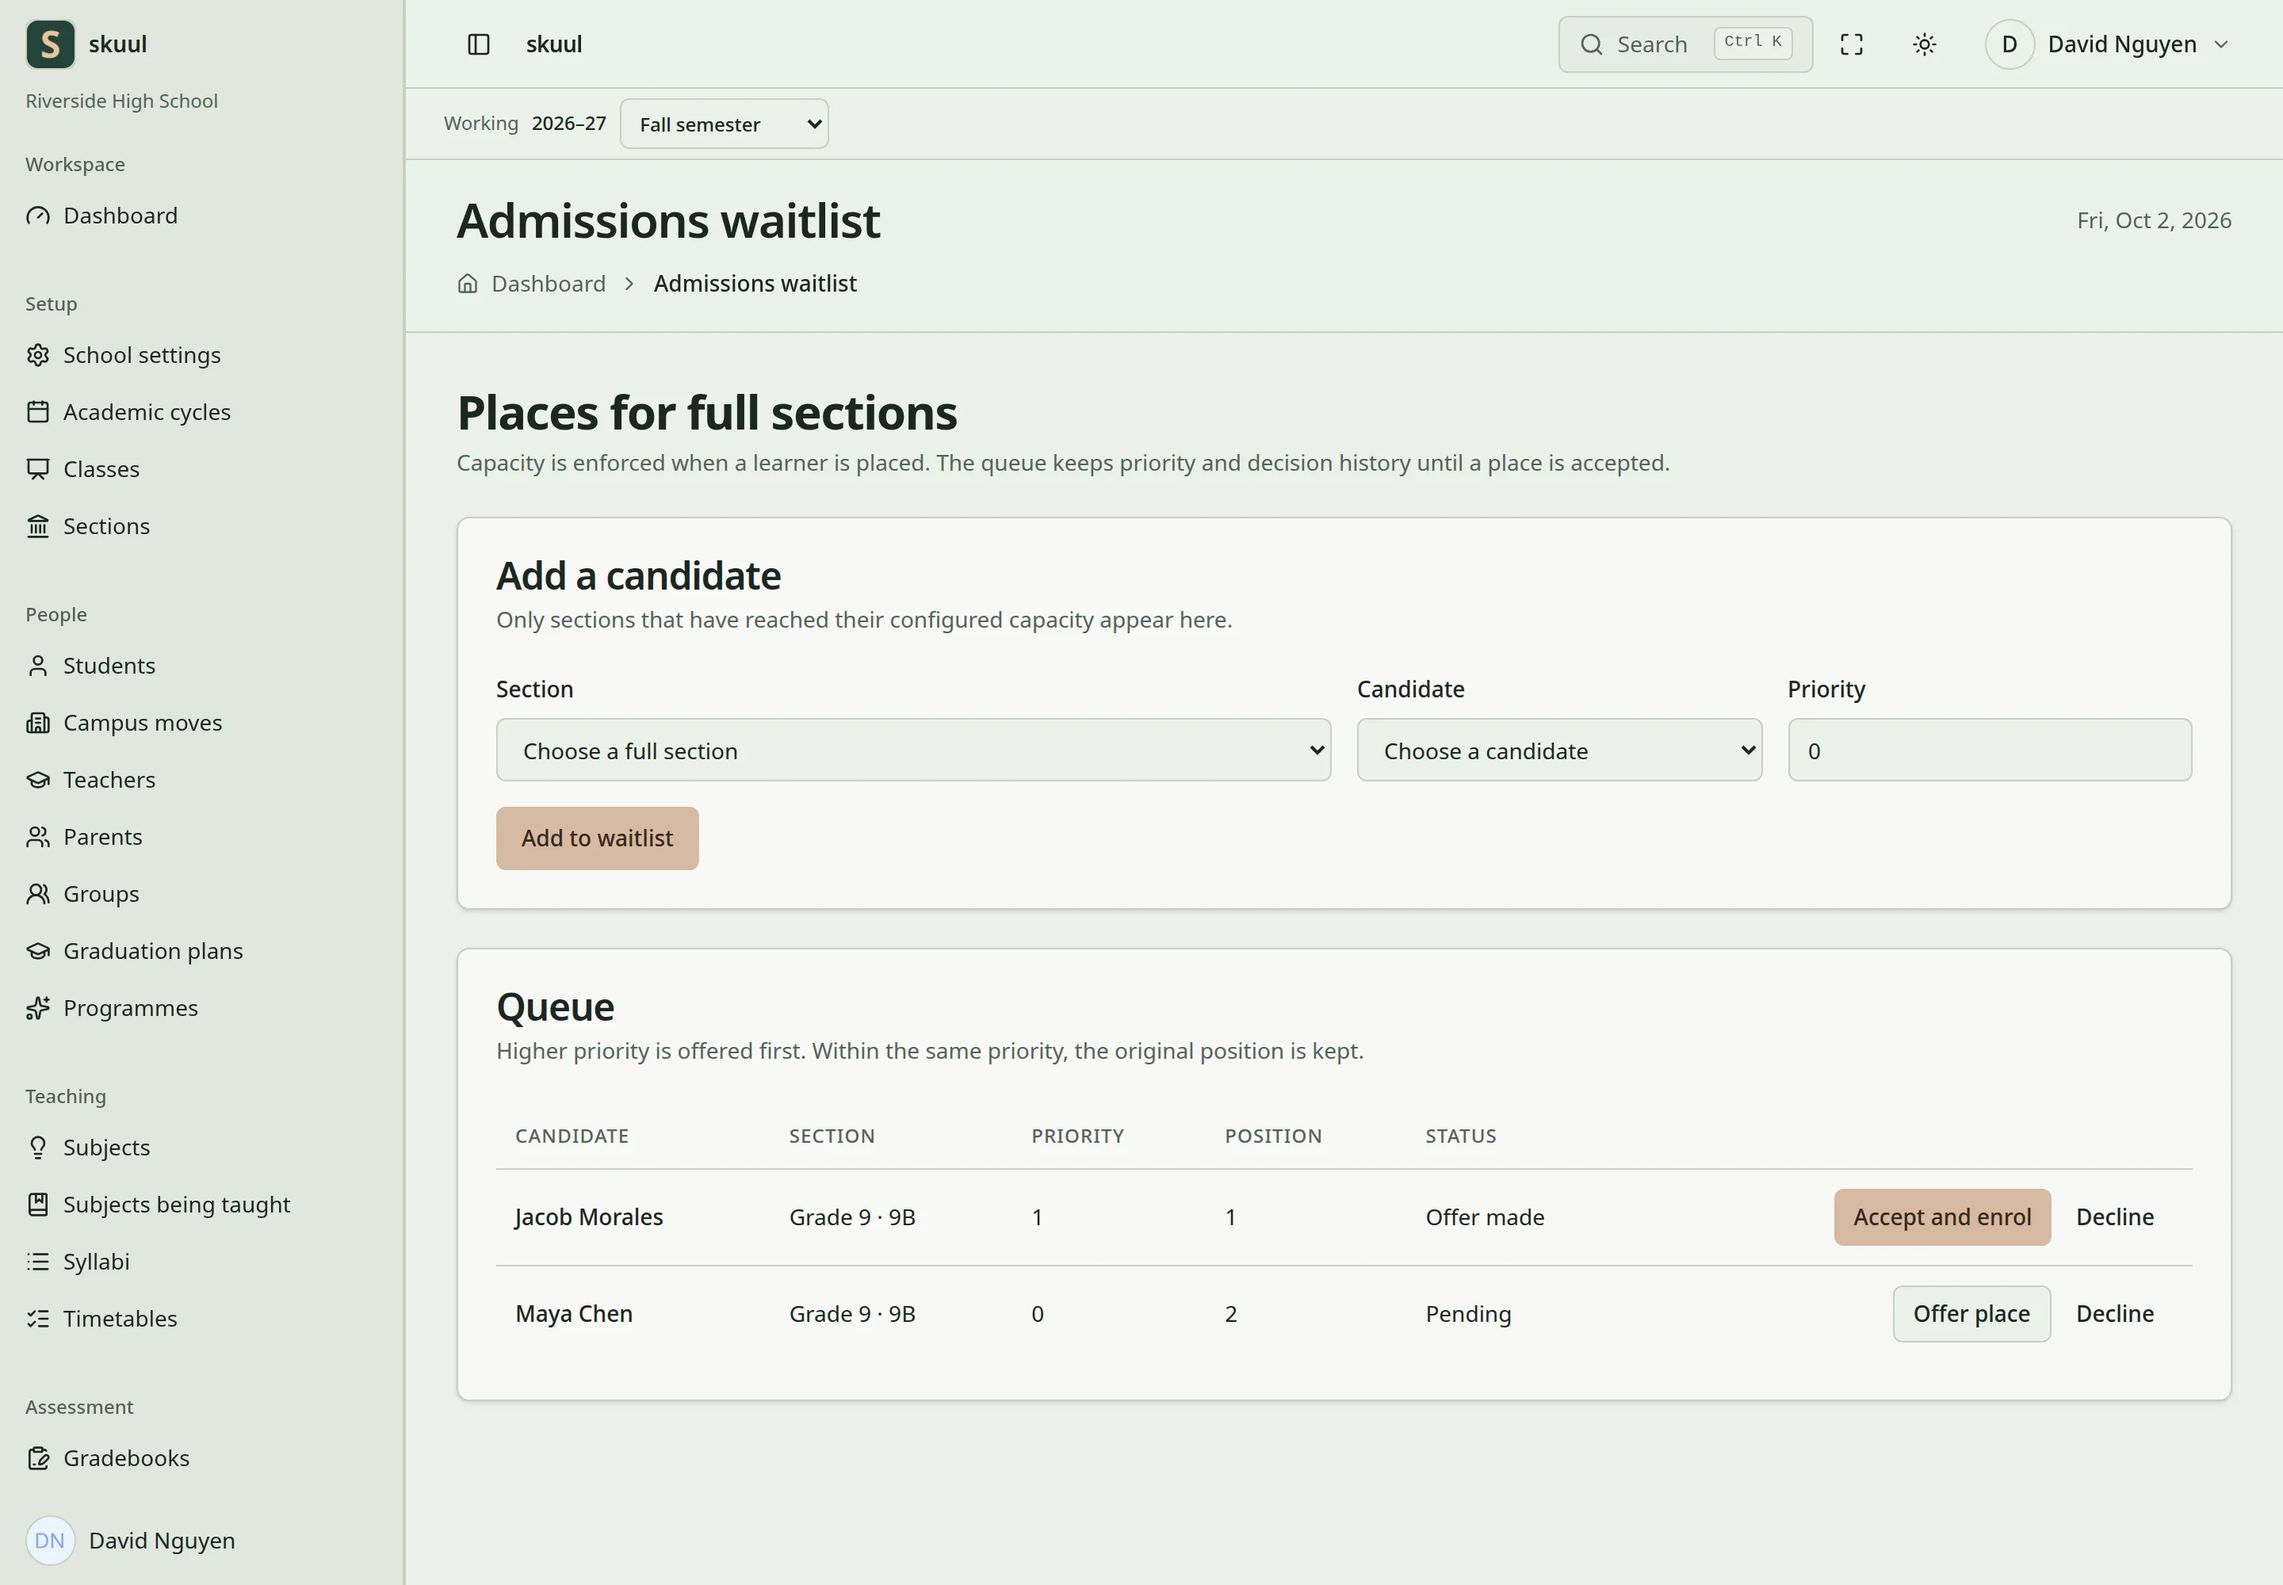
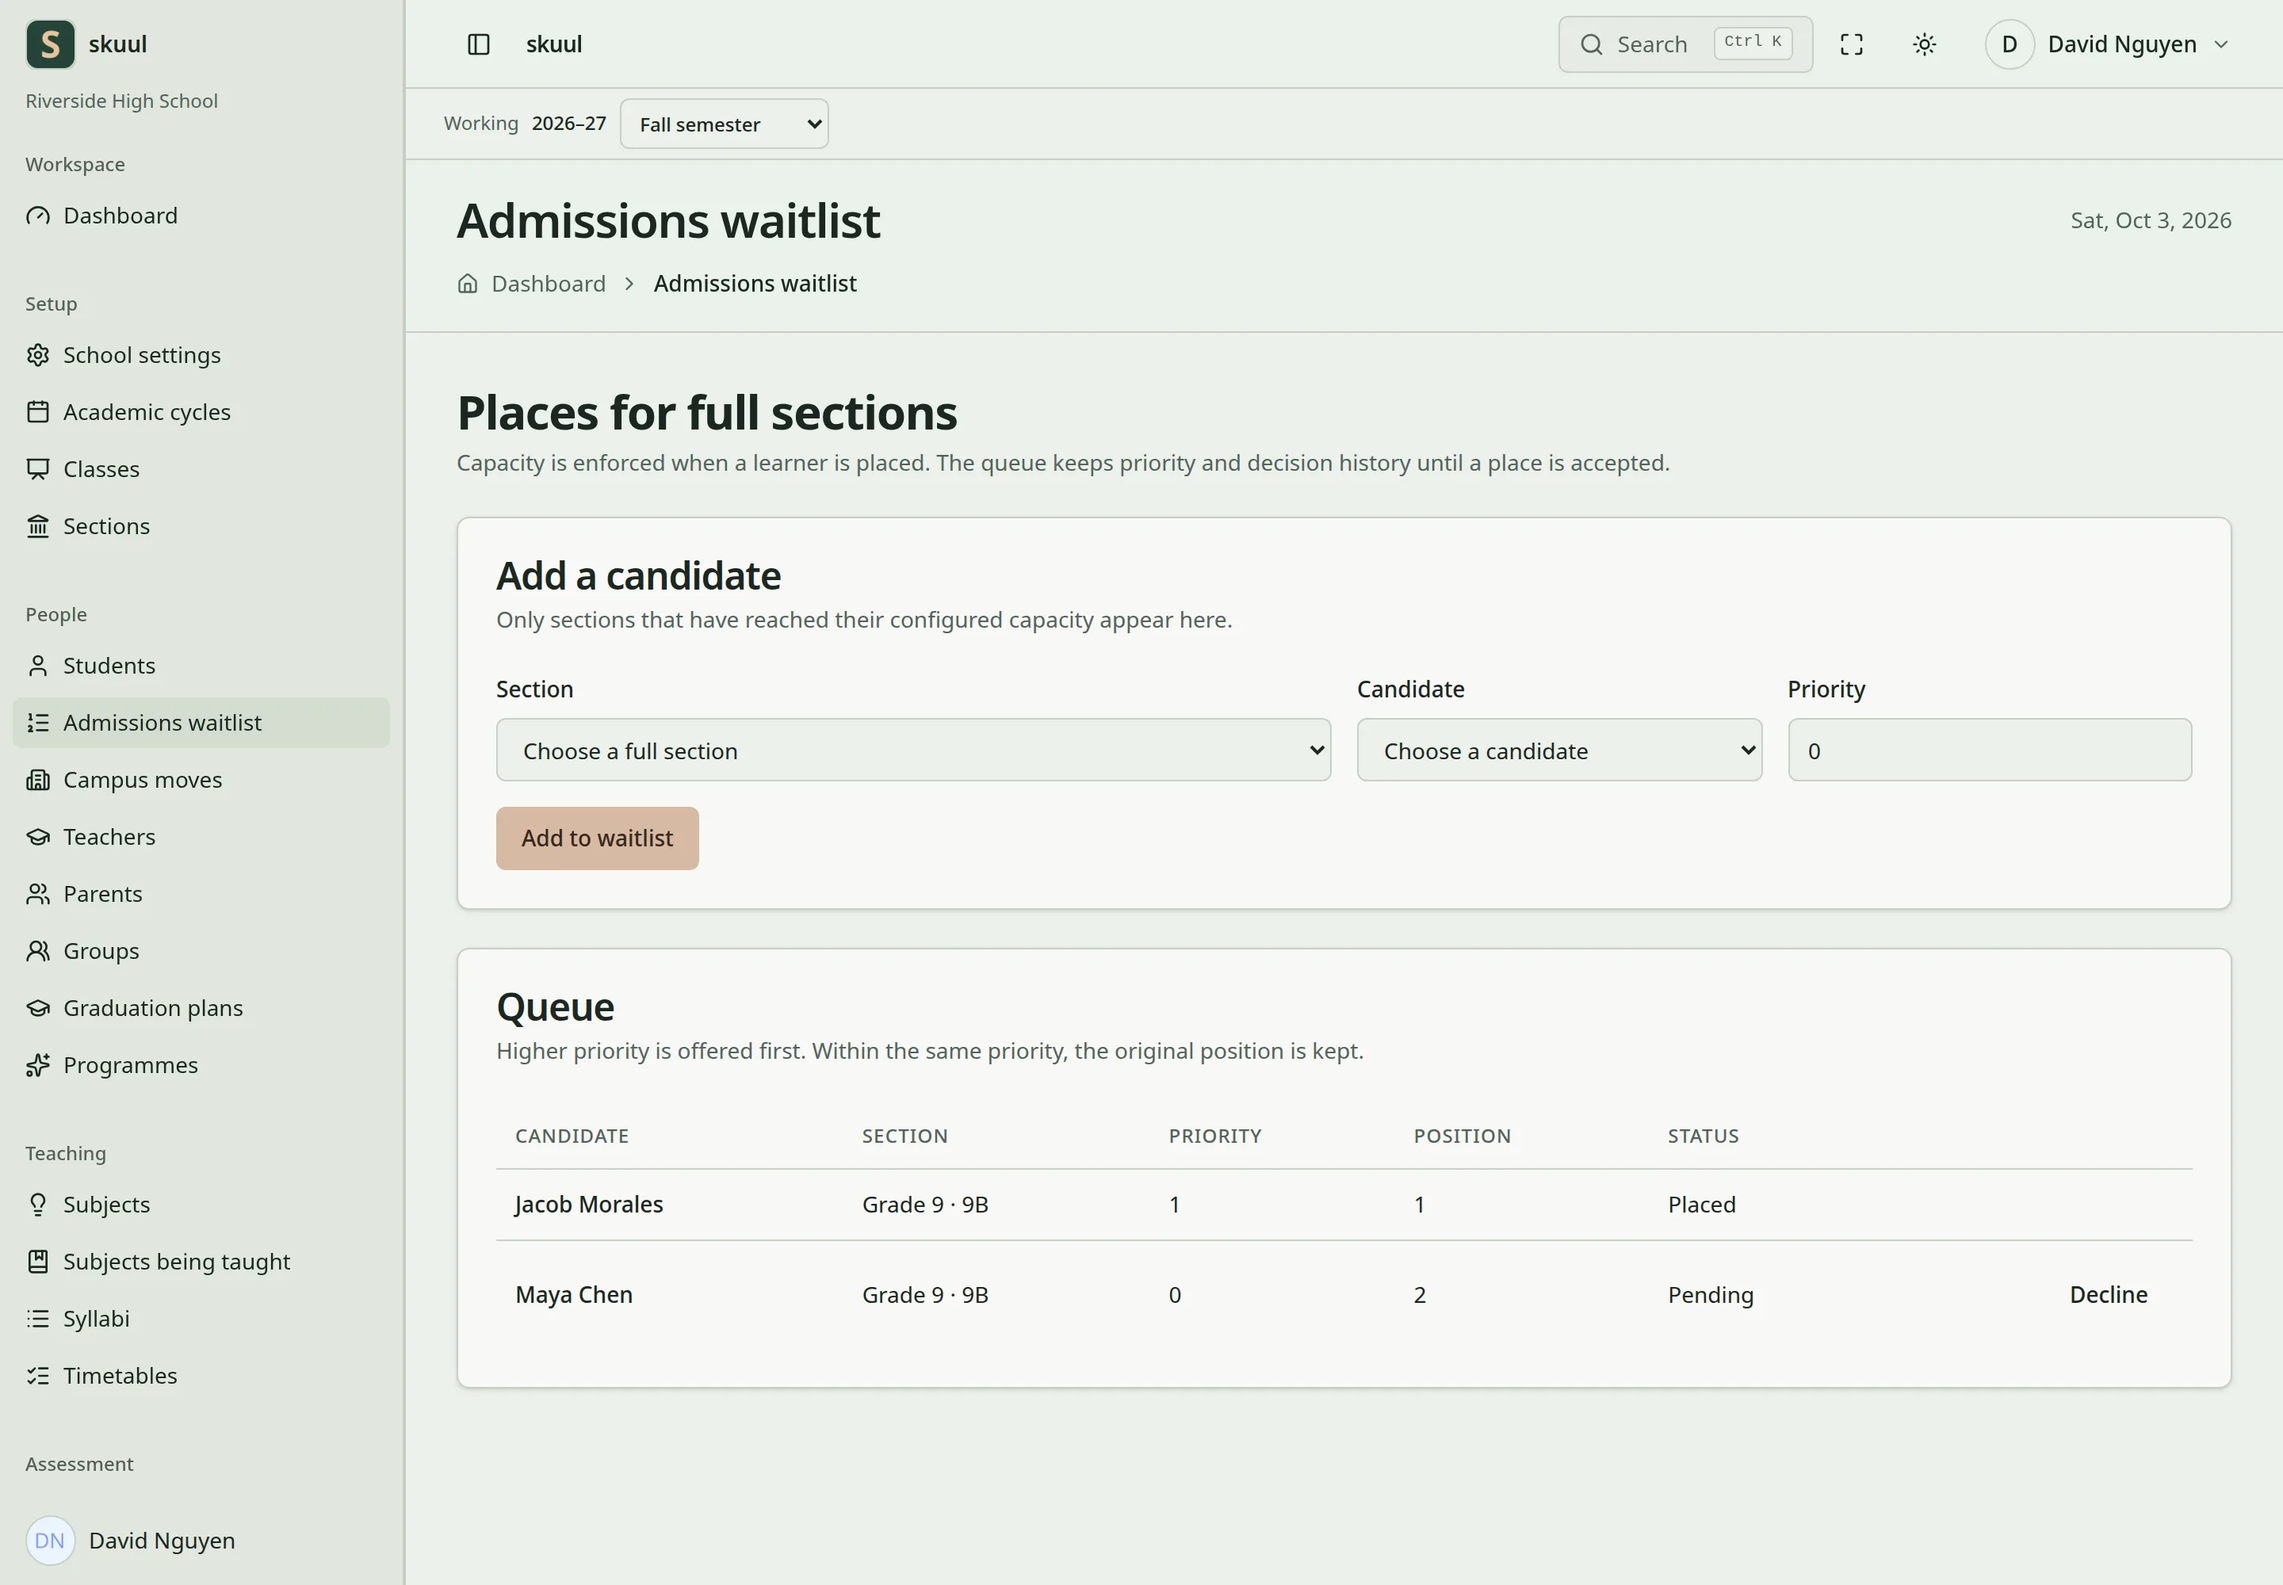
Match the admissions guide to the waitlist board
The guide now starts from the sidebar link and lists what Section and
Candidate offer. It says that only the next candidate can be offered
a free seat, and when acceptance is refused. The screenshot is new.

diff --git a/current/people/admissions.md b/current/people/admissions.md
@@ -1,68 +1,75 @@
 # Admission queues
 
-Use the admission waitlist for a section with a capacity limit.
-Select the campus, cycle, level, and section.
-You need admission management access.
+Use the admission waitlist when a section with a capacity limit is full.
+Open **Admissions waitlist** in the sidebar, under **Students**.
+You need `read admission waitlist` to see the board.
+Adding candidates, offering places, accepting, and declining need `manage admission waitlist`.
+
+![The waitlist board has the Add a candidate form above the queue. One candidate is placed, and one candidate is still pending with only a Decline button.](/images/current/admission-queue-light-desktop.webp)
+
+The section is full again, so the pending candidate has no **Offer place** button.
 
 ## Add a candidate
 
-1. Confirm that the section belongs to the selected cycle.
-2. Confirm that the section is full and the cycle is not closed.
-3. Select the candidate's existing account.
-4. Add the candidate to the section's waitlist.
-5. Review the queue order.
+1. In **Section**, select the full section.
+2. In **Candidate**, select the person.
+3. Set **Priority**. A higher number is offered first.
+4. Select **Add to waitlist**.
+5. Find the candidate's row in **Queue**.
 
-A candidate cannot already be an enrolled learner or campus staff.
-The queue is for a known person and a particular destination section.
-It does not create a second enrollment.
+**Section** lists only sections that are active, full, and in an open cycle.
+If a section has a free seat, admit the learner instead of waitlisting them.
+
+**Candidate** lists people with an active membership at this campus.
+It leaves out learners enrolled here and people who work as staff.
+The board does not create accounts. Create the person first, for example as a parent, then return.
+
+Adding the same person to the same section again keeps the one entry.
+Within the same priority, the queue keeps the order in which people were added.
 
 ## Offer and fill a place
 
-![The waitlist for a full section shows one candidate with an open offer and one candidate still waiting.](/images/current/admission-queue-light-desktop.webp)
+When a seat becomes free, the next candidate of that section shows **Offer place**.
+Only that row has the button, and only while the section has a free seat.
 
-An open offer reserves a section seat.
+1. Select **Offer place** on the next candidate's row.
+2. Read the message. It names the person who received the offer.
+3. When the family accepts, select **Accept and enrol**.
+4. When the family refuses, select **Decline** and confirm.
+5. After acceptance, open the learner's profile and check the enrollment and placement.
 
-1. Review the section's available capacity.
-2. Offer the next available place from the queue.
-3. Record acceptance or decline.
-4. After acceptance, review the learner's enrollment and placement.
+An offer holds its seat until it is accepted or declined.
+Normal placement counts that held seat, so the seat cannot be filled another way.
 
-An open offer reserves a seat. Normal placement checks count that reservation.
-Acceptance requires an offered place and a still-eligible candidate.
-Acceptance can reinstate an eligible earlier enrollment.
-It cannot bypass a closed terminal enrollment or enrollment at another campus.
-Declining finishes that offer.
+If the next candidate was enrolled here another way while waiting, the offer skips them.
+Their entry is withdrawn, and the offer goes to the next person.
 
-Before archiving a section, resolve its waiting candidates and active offers.
-Move current learners before removing the section from use.
-## Use the queue controls
+Acceptance creates the learner's enrollment in the offered section.
+A learner who left this campus earlier returns to their own enrollment, with its history and admission number.
+Acceptance is refused when:
 
-Read access requires `read admission waitlist`.
-Adding candidates, offering seats, accepting, and declining require `manage admission waitlist`.
+- the candidate already attends this campus
+- their earlier enrollment here is Archived or Transferred, which cannot be reopened
+- they attend another campus or school (ask that school to move or transfer them)
+- they work as staff
 
-1. Select **Section** on the waitlist board.
-2. Select a known person in **Candidate**.
-3. Set **Priority** where the campus uses priority ordering.
-4. Select **Add to waitlist**.
-5. Review the candidate's queue row and section capacity.
+## Archive a section with a queue
 
-The board selects existing eligible people. It has no inline new-account form.
-Ask the operator to prepare an eligible account before returning to the board.
-The board does not provide candidate account provisioning. Do not admit a duplicate learner to bypass a full section.
-When a place becomes available, select **Offer place** on the eligible queue entry.
-Select **Accept and enrol** after confirmed acceptance, or **Decline** after confirmed refusal.
-Do not create a separate enrollment while an offer already reserves the seat.
+Decide every open entry before you archive the section.
+The archive is refused while the section has waiting candidates or open offers.
+Move current learners before you remove the section from use.
 
 | Problem | Action |
 | --- | --- |
-| Section cannot use a waitlist | Configure a capacity limit and verify that the section is full. |
-| Candidate is absent | Check existing account visibility and incompatible enrollment or staff status. |
-| Acceptance fails after an offer | Recheck capacity, cycle status, and the person's current enrollment. |
-| Section cannot be archived | Resolve its waiting and offered entries before archiving. |
+| The section is not in **Section** | Check that it is active, has a capacity limit, is full, and that its cycle is not closed. |
+| The person is not in **Candidate** | Check their active campus membership. Learners enrolled here and staff are not listed. |
+| No **Offer place** button | The section has no free seat, or an earlier offer still holds it. |
+| Acceptance fails | Read the message. Check the person's enrollments here and at other campuses. |
+| The section cannot be archived | Decline or accept its open entries first. |
 
 ## Check the result
 
-- Check the candidate state and section capacity after offering a place.
-- After acceptance, confirm the learner has the intended enrollment and placement.
+- After an offer, check that the right person shows **Offer made**.
+- After acceptance, check that the row shows **Placed** and the learner is in the section.
 
 See [academic structure](../academics/structure) for capacity and section history.
